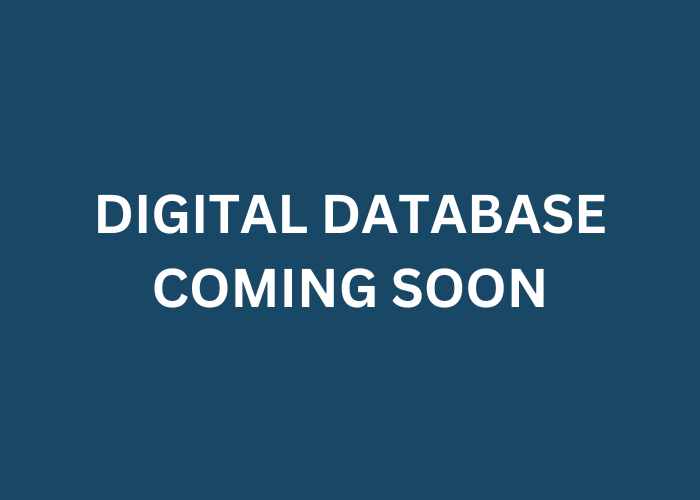
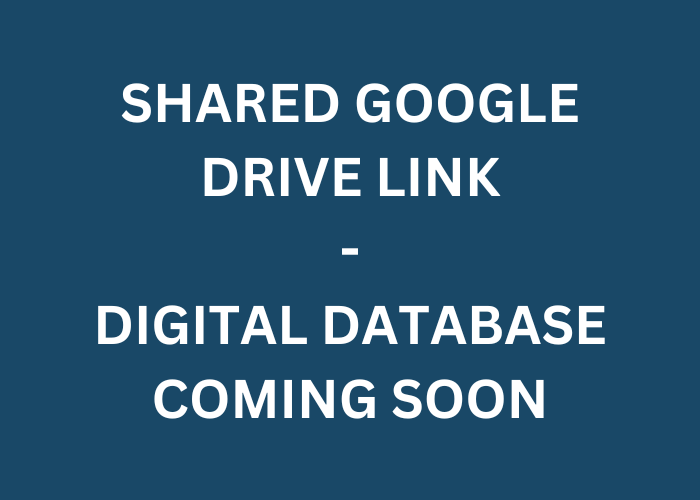
Google Drive Link

diff --git a/index.html b/index.html
@@ -83,7 +83,7 @@
             <tr>
                 <td style="width: 70%; height: 50%;">
                     <!--<iframe frameborder="0" src="https://itch.io/embed-upload/11382188?color=333333" allowfullscreen="" width="100%" height="500px"><a href="https://manarockgaming.itch.io/the-bureaucratic-reformation">Play The Bureaucratic Reformation on itch.io</a></iframe>-->
-                    <img src="Permanent Photos/ComingSoon_DigitalDatabase.png" width="100%" height="auto" alt="Coming Soon">
+                    <a href="https://drive.google.com/drive/folders/1As4uatuwHpX59SVKALOegC3r2w5tkg1i?usp=sharing" target="_blank"><img src="Permanent Photos/ComingSoon_DigitalDatabase.png" width="100%" height="auto" alt="Coming Soon"></a>
                 </td>
                 <td style="width: 30%; height: 50%;">
                     <a href="3_Leadership.html#SocietyPresident"><img src='Permanent Photos/Tab_President.png' alt="Society President Link" style="width: 90%; padding: 0% 0% 0% 0%; float: right;" onmouseover="this.src='Permanent Photos/Tab_President_Hover.png';" onmouseout="this.src='Permanent Photos/Tab_President.png';"/></a>
